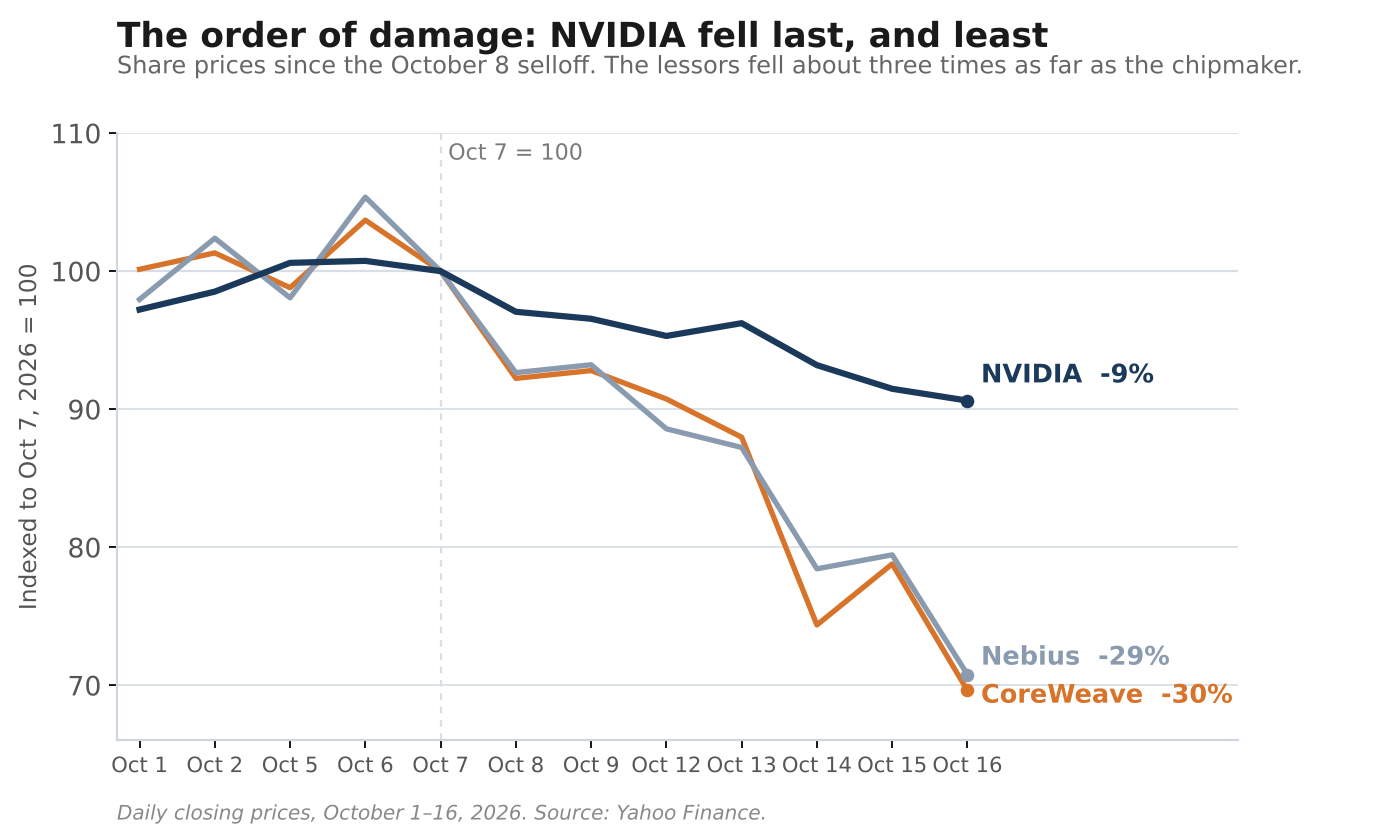
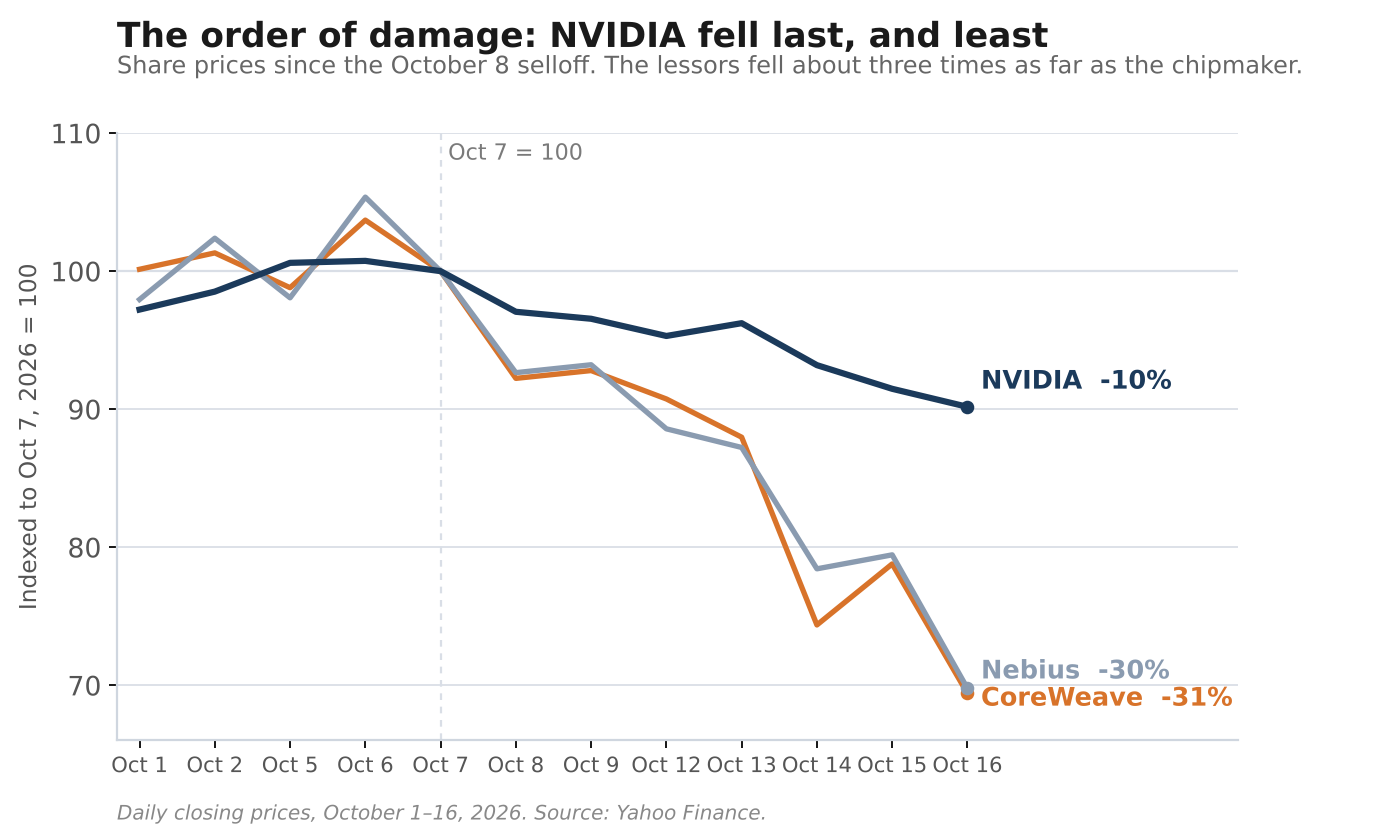
Fix DDTL 1.0 count (4B term loans), correct order-of-damage baseline to Oct 7 close, redesign debt-stack chart
- Term loans 2B -> 4B in text and chart: DDTL 1.0 ($1,300M @15%) was wrongly excluded
- Order-of-damage: rebaseline to Oct 7 close (pre-Oct-8 OpenAI news), not Oct 6/7 high
  NVIDIA -10%, CoreWeave -31%, Nebius -30% (Oct 7 close -> Oct 16 close)
- Debt-stack chart: move rate labels off the bars to readable right-of-bar position; xlim to 19
- Revenue-per-GW chart: widen bottom margin so Feynman (roadmap) label clears source line

Claude-Session: https://claude.ai/code/session_01HDhTLet2AMqpzZaHVpR8SL

diff --git a/charts/make_charts.py b/charts/make_charts.py
@@ -24,9 +24,9 @@ plt.rcParams.update({
 # --- data: daily closes, Oct 2026 (Yahoo Finance) ---
 dates = ["Oct 1","Oct 2","Oct 5","Oct 6","Oct 7","Oct 8","Oct 9",
          "Oct 12","Oct 13","Oct 14","Oct 15","Oct 16"]
-nvda = [230.86,233.95,238.90,239.24,237.47,230.48,229.28,226.32,228.52,221.30,217.23,215.20]
-crwv = [88.57,89.62,87.39,91.72,88.45,81.58,82.08,80.26,77.81,65.78,69.69,61.58]
-nbis = [232.28,242.81,232.57,249.87,237.15,219.71,221.07,210.06,206.86,186.01,188.41,167.85]
+nvda = [230.86,233.95,238.90,239.24,237.47,230.48,229.28,226.32,228.52,221.30,217.23,214.13]
+crwv = [88.57,89.62,87.39,91.72,88.45,81.58,82.08,80.26,77.81,65.78,69.69,61.39]
+nbis = [232.28,242.81,232.57,249.87,237.15,219.71,221.07,210.06,206.86,186.01,188.41,165.47]
 
 base = 4  # index to Oct 7 = 100
 def idx(series):
@@ -121,7 +121,7 @@ fig.text(0.085, 0.905,
 fig.text(0.085, 0.015,
          "Revenue per gigawatt of deployed compute. Source: NVIDIA roadmap / non-deal roadshow deck, Sep 2026.",
          fontsize=9, color="#888", style="italic")
-fig.subplots_adjust(left=0.085, right=0.95, top=0.84, bottom=0.12)
+fig.subplots_adjust(left=0.085, right=0.95, top=0.84, bottom=0.2)
 out = "charts/revenue-per-gw.png"
 fig.savefig(out, facecolor="white")
 print("wrote", out)
@@ -133,7 +133,7 @@ print("wrote", out)
 # ======================================================================
 LIGHT = "#b9c4d2"
 rows = [
-    ("Secured term loans (DDTLs)", 12, "~6–9%", NAVY),
+    ("Secured term loans (DDTLs)", 14, "~9%", NAVY),
     ("Unsecured senior notes",     10, "10% coupon, ~16% now", ORANGE),
     ("Convertibles",                7, "2%", LIGHT),
     ("Equipment financing",         5, "~11%", SLATE),
@@ -144,12 +144,13 @@ rates = [r[2] for r in rows]
 bcolors = [r[3] for r in rows]
 y = list(range(len(rows)))[::-1]  # first row on top
 
-fig, ax = plt.subplots(figsize=(8.8, 5.0))
+fig, ax = plt.subplots(figsize=(9.2, 5.0))
 ax.barh(y, amounts, color=bcolors, height=0.62, zorder=3)
+# amount in bold + rate in a readable grey, both to the right of the bar
 for yi, amt, rate in zip(y, amounts, rates):
-    ax.annotate(f"${amt}B", (amt, yi), xytext=(6, 0), textcoords="offset points",
-                va="center", ha="left", fontweight="bold", color=INK, fontsize=12)
-    ax.annotate(rate, (0.2, yi), xytext=(0, -16), textcoords="offset points",
+    ax.annotate(f"${amt}B", (amt, yi), xytext=(8, 0), textcoords="offset points",
+                va="center", ha="left", fontweight="bold", color=INK, fontsize=12.5)
+    ax.annotate(f"at {rate}", (amt, yi), xytext=(8, -14), textcoords="offset points",
                 va="center", ha="left", color="#777", fontsize=9.2)
 
 # call out the orange slice
@@ -159,7 +160,7 @@ ax.annotate("the viral 16% is only this slice",
 
 ax.set_yticks(y)
 ax.set_yticklabels(labels, fontsize=11, color="#333")
-ax.set_xlim(0, 15)
+ax.set_xlim(0, 19)
 ax.set_xticks([0, 5, 10, 15])
 ax.set_xticklabels(["0", "$5B", "$10B", "$15B"], color="#555")
 for s in ["top", "right", "left"]:

diff --git a/post2-draft.md b/post2-draft.md
@@ -8,7 +8,7 @@ Here is the answer, before the argument. When the memory shortage ends, almost n
 
 That is not the consensus. The consensus, and Michael Burry's trade, is that the shortage is the thing holding the AI complex up, so when it breaks, rent falls, NVIDIA's pricing cracks, and the stock goes with it. In late September, according to Stocktwits, Burry rolled his NVIDIA short into September 2027 puts, which moves his clock toward the 2028 supply wave, exactly where that bet pays. I think it reads the business backwards, and the past two weeks are the clearest evidence yet of why.
 
-Since October 8 the AI trade has sold off hard, on a pile of things at once: a scare over how OpenAI counts its revenue, the gap between the roughly $50 billion it keeps and the $70 billion gross everyone had been quoting, a Chinese memory breakthrough that threatens the shortage, and a hot September inflation print. By October 16, CoreWeave was down about 30% from its October 7 high and Nebius about 29%, CoreWeave's cost of default insurance had hit a record, and some of its bonds yielded 16%. NVIDIA fell about 9%. The companies that borrowed to buy the chips took the most damage. The company that sold them took a third of it. A skeptic will say the neoclouds always fall furthest in a selloff, because they are the more volatile stocks, and that is true. What volatility does not explain is the credit signal under the price: a record on CoreWeave's default insurance and 16% on its bonds. That is about who owes money, not about how jumpy the share price is.
+Since October 8 the AI trade has sold off hard, on a pile of things at once: a scare over how OpenAI counts its revenue, the gap between the roughly $50 billion it keeps and the $70 billion gross everyone had been quoting, a Chinese memory breakthrough that threatens the shortage, and a hot September inflation print. By October 16, CoreWeave was down about 31% since October 7, the day before the news, and Nebius about 30%; CoreWeave's cost of default insurance had hit a record, and some of its bonds yielded 16%. NVIDIA fell about 10%. The companies that borrowed to buy the chips took the most damage. The company that sold them took a third of it. A skeptic will say the neoclouds always fall furthest in a selloff, because they are the more volatile stocks, and that is true. What volatility does not explain is the credit signal under the price: a record on CoreWeave's default insurance and 16% on its bonds. That is about who owes money, not about how jumpy the share price is.
 
 [C2: NVDA, CoreWeave and Nebius indexed to October 7, the lessors falling three times as far as the chipmaker.]
 
@@ -16,7 +16,7 @@ That order is the argument. NVIDIA is the largest weight in the S&P 500, so if y
 
 ## The short version
 
-- **What happened:** Since October 8 the AI trade sold off in order of who holds the financing risk. CoreWeave and Nebius fell about 30% and CoreWeave's default insurance hit a record, while NVIDIA fell about 9%. The trigger was a mix, but the order was the point.
+- **What happened:** Since October 8 the AI trade sold off in order of who holds the financing risk. CoreWeave and Nebius fell about 30% and CoreWeave's default insurance hit a record, while NVIDIA fell about 10%. The trigger was a mix, but the order was the point.
 - **Why the shortage ending barely touches NVIDIA:** On the deals the neoclouds are signing now, a gigawatt of compute earns its chips back well inside their six-year life. On my conservative method, rent would have to fall by about half before a chip stops covering its cost, and rent is still rising. The building keeps its power, the cloud swaps in NVIDIA's next chip, and NVIDIA sells every upgrade at a higher price per gigawatt.
 - **The number that matters:** Whether the labs keep paying. This week pointed both ways. Anthropic, a lab, said on a self-reported adjusted basis that it is now profitable and makes $1.70 of revenue for every $1 of compute. Meanwhile the credit market priced a better-than-even chance, over five years, that CoreWeave, the most levered lessor, defaults.
 - **The verdict:** A hold, and a buy on weakness, on one condition. Not that the shortage lasts. That the labs keep paying.
@@ -54,7 +54,7 @@ That guarantee is the balance-sheet form of this whole section. NVIDIA's 10-Q pu
 
 The stress showed up in credit, not rent, and that gap is the tell. Rent is what you pay to use a GPU, and it is still rising because demand is strong. Credit is what these companies pay to borrow, and that is what cracked. CoreWeave's five-year default insurance hit a record, around 1,200 basis points, which the market mechanically converts to a better-than-even chance it defaults within five years. Read that number for what it is. It is a market-implied, risk-neutral probability that bakes in a fear premium, so it runs well above the real-world odds, and it is cumulative over five years rather than a call on next quarter. It is a loud warning that still sits years from an actual default.
 
-Its Q2 10-Q tells you what the 16% bond yield is and is not. CoreWeave carries about $35 billion of debt, plus another $16 billion of data-center leases, which are rent on buildings it does not own, not borrowed money. By my weighting of the per-facility rates the filing discloses, the debt blends to an effective rate near 8%. The 16% is the market yield on its unsecured senior notes, the slice with no collateral behind it, about $10 billion of face issued around 10% and now trading down, so CoreWeave still pays the old coupon and the 16% is only what a new buyer collects. The rest is cheaper and better secured: about $12 billion of term loans pledged against named customer contracts, including the investment-grade, Meta-backed, Blackstone-anchored facility near 6%; about $5 billion of equipment financing; and about $7 billion of convertibles at 2%. The $2.6 billion DDTL 5.5 my last post covered comes on top of those June figures. So the viral number is the most expensive, most junior slice quoted as if it were the whole company, whose real cost of debt is nearer 8%, and it is a rolling obligation the secured loans chip at monthly, about $6 billion over the next year, while the unsecured notes run to 2030 and beyond.
+Its Q2 10-Q tells you what the 16% bond yield is and is not. CoreWeave carries about $35 billion of debt, plus another $16 billion of data-center leases, which are rent on buildings it does not own, not borrowed money. By my weighting of the per-facility rates the filing discloses, the debt blends to an effective rate near 8%. The 16% is the market yield on its unsecured senior notes, the slice with no collateral behind it, about $10 billion of face issued around 10% and now trading down, so CoreWeave still pays the old coupon and the 16% is only what a new buyer collects. The rest is cheaper and better secured: about $14 billion of term loans pledged against named customer contracts, including the investment-grade, Meta-backed, Blackstone-anchored facility near 6%; about $5 billion of equipment financing; and about $7 billion of convertibles at 2%. The $2.6 billion DDTL 5.5 my last post covered comes on top of those June figures. So the viral number is the most expensive, most junior slice quoted as if it were the whole company, whose real cost of debt is nearer 8%, and it is a rolling obligation the secured loans chip at monthly, about $6 billion over the next year, while the unsecured notes run to 2030 and beyond.
 
 [C3: CoreWeave's ~$35B of debt, largest facilities by type and cost. The viral 16% is the ~$10B unsecured slice; the blend is about 8%.]
 
